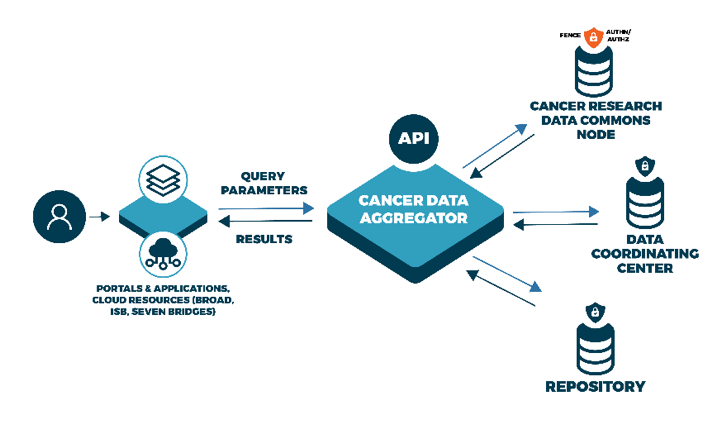
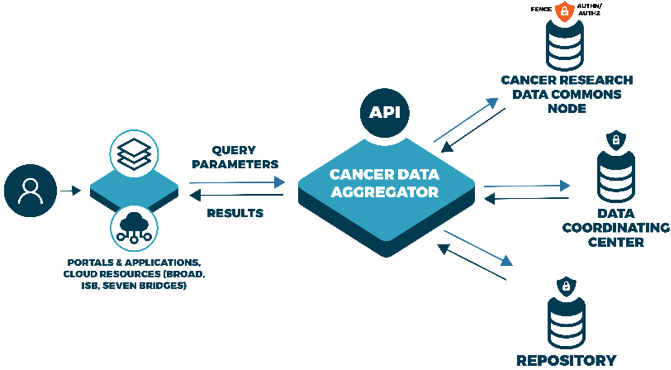
fix homepage ratios

Changed region(s): [[0.0, 0.0, 1.0, 0.8027], [0.7452, 0.7135, 0.924, 1.0]]

diff --git a/docs/index.md b/docs/index.md
@@ -11,15 +11,15 @@ hide:
 
 <div class="introtext" markdown>
 
-Using the CDA and a harmonized data model developed by the NCI Cancer Research Data Commons (CRDC) Data Harmonization teams, users can discover, query, retrieve,
-and aggregate data according to a variety of search parameters, such as
-participant, sample, tissue, disease, or study.
+### Using the CDA and a harmonized data model developed by the NCI Cancer Research Data Commons (CRDC) Data Harmonization teams, users can discover, query, retrieve, and aggregate data according to a variety of search parameters, such as participant, sample, tissue, disease, or study.
+
+[Try it now](./QuickStart/QuickStart){ .md-button }
 
 </div>
 
 <div class="introimage" markdown>
 
-![Image title](assets/images/cda_graphic.png){ align=right }
+![Image title](assets/images/cda_graphic.png){img width="80%"}
 
 </div>
 </div>
